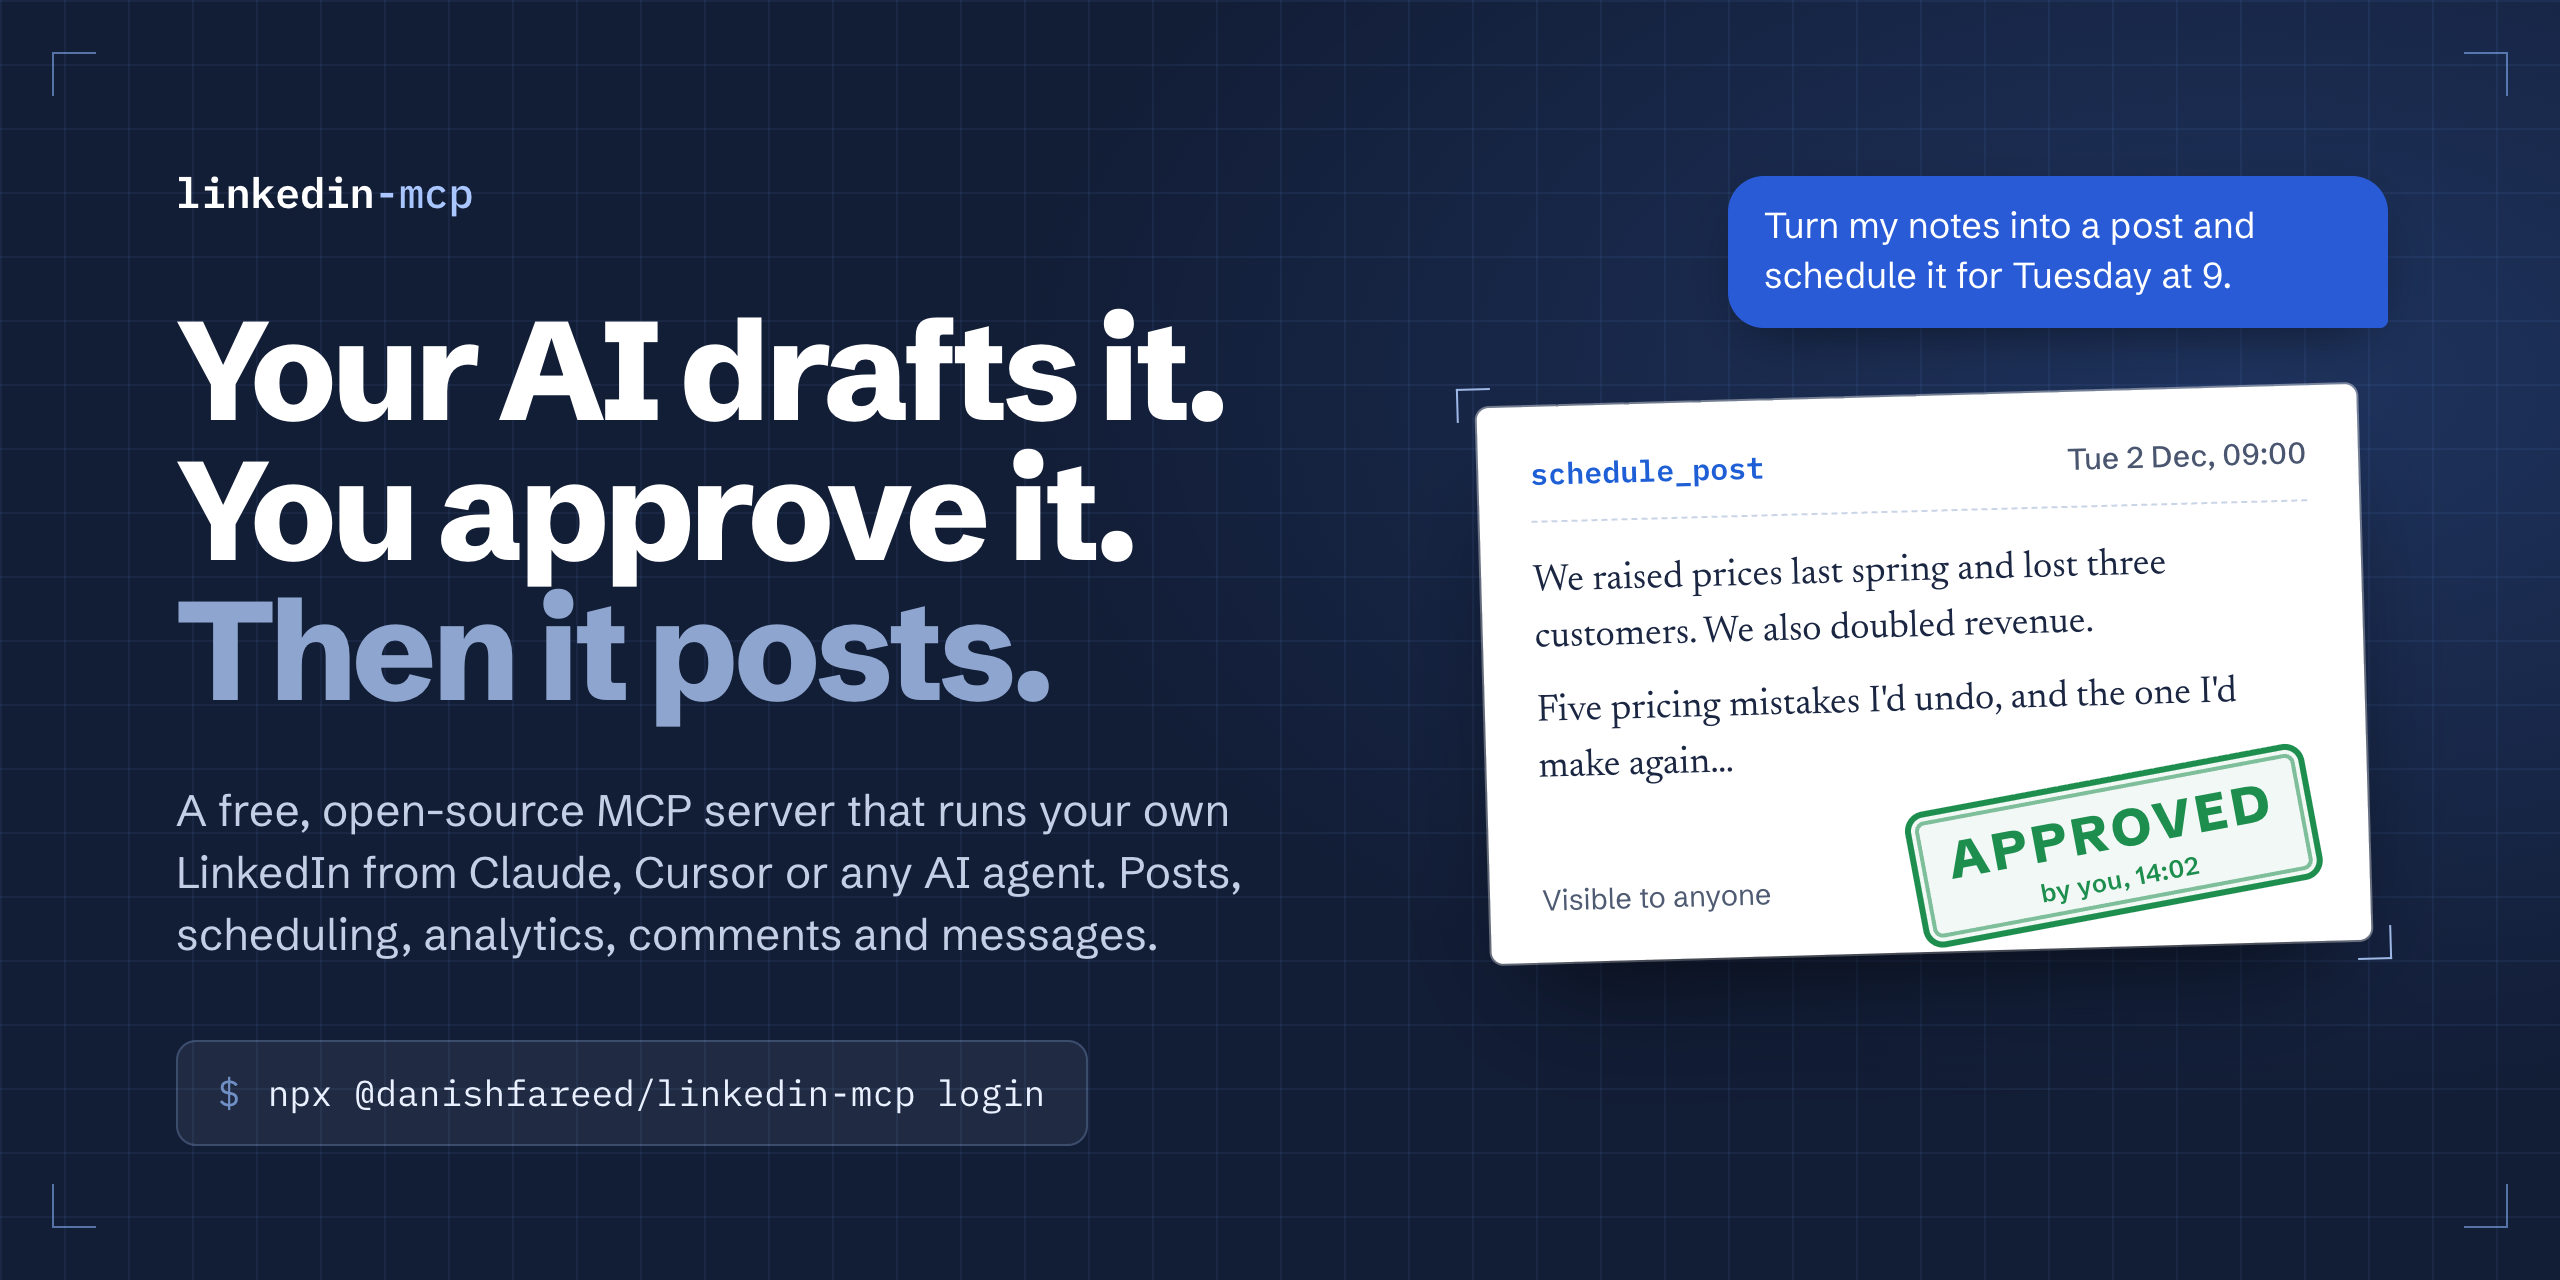
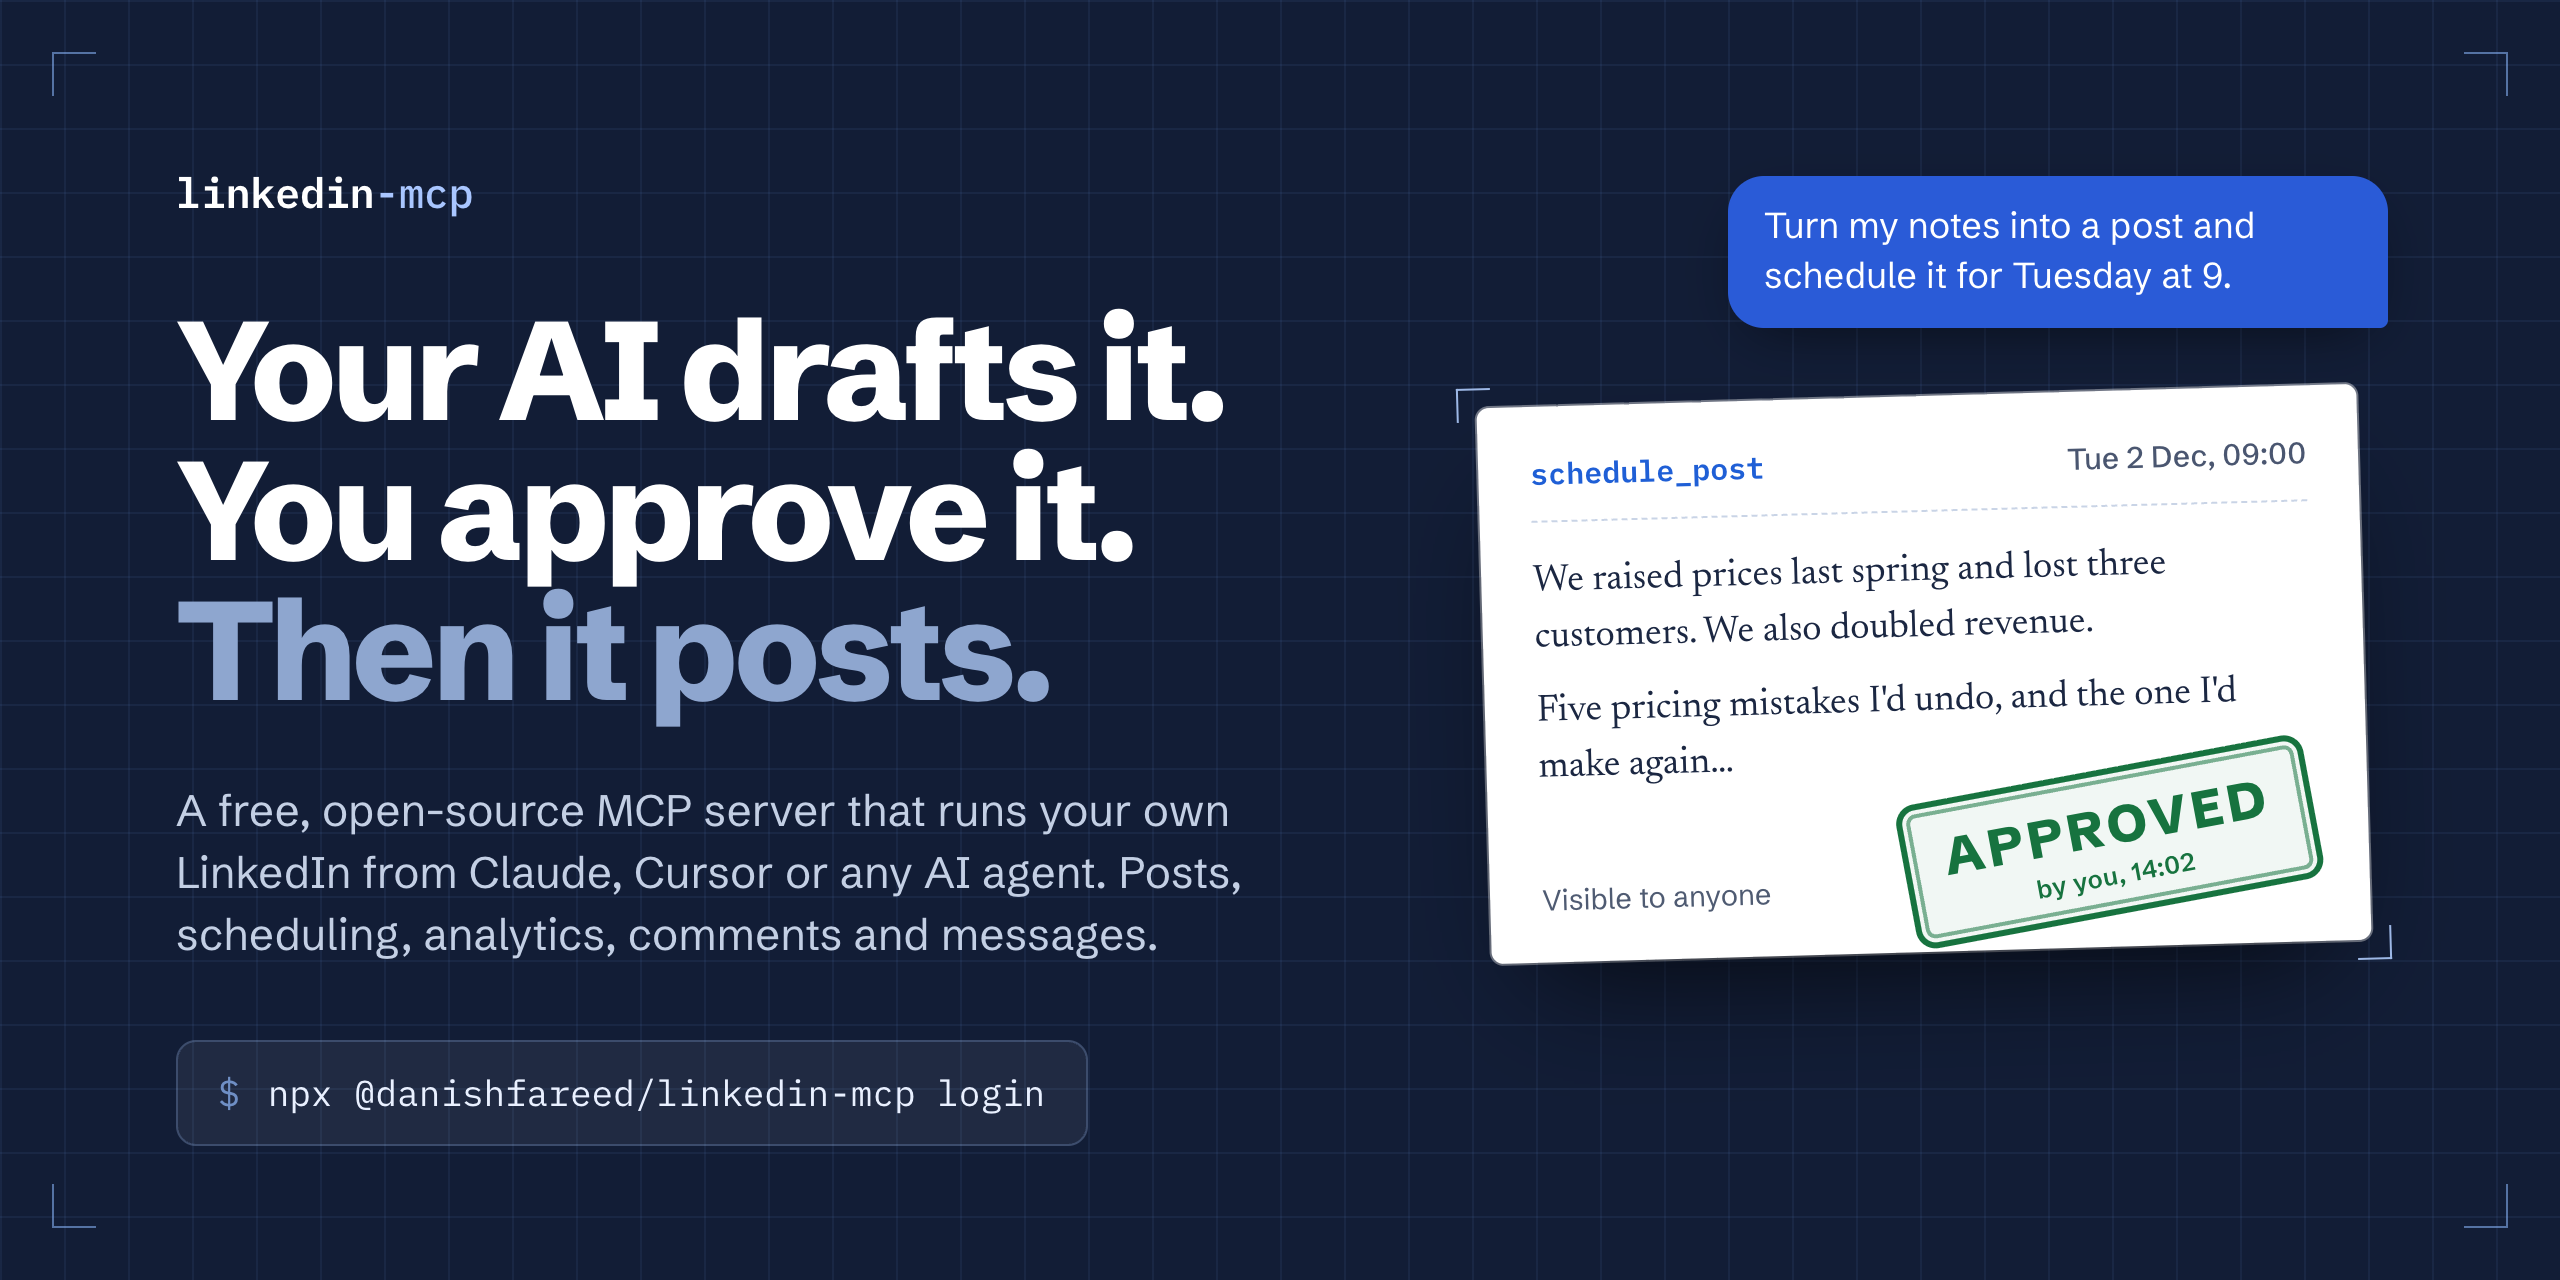
Refresh README images for the new tools and tighten their design
Tools index gains Jobs and the person/company post tools (38 tools). The
hero and demo drop the decorative glow, the approval stamp is darker for
contrast, and the diagram's headings step up more clearly.

Changed region(s): [[0.6875, 0.0625, 1.0, 0.5], [0.7188, 0.5625, 0.9062, 0.75]]

diff --git a/docs/assets/src/how-it-works.html b/docs/assets/src/how-it-works.html
@@ -20,7 +20,7 @@
   .station { position: relative; padding-top: 8px; }
   .glyph {
     width: 64px; height: 64px; border-radius: 16px; display: grid; place-items: center;
-    background: var(--sheet); box-shadow: var(--shadow); border: 1px solid var(--rule);
+    background: var(--sheet); border: 1.5px solid var(--rule);
     position: relative; z-index: 1;
   }
   .glyph svg { width: 32px; height: 32px; stroke: var(--ink); fill: none; stroke-width: 1.8; stroke-linecap: round; stroke-linejoin: round; }
@@ -28,8 +28,8 @@
   .station.us .glyph svg { stroke: var(--on-blue); }
   .station.last { padding-left: 46px; }
   .station.cross .wire { right: -40px; }
-  .station h3 { margin-top: 18px; font-size: 23px; font-weight: 700; letter-spacing: -0.015em; }
-  .station h3.mono { font-family: var(--mono); font-size: 21px; font-weight: 600; letter-spacing: -0.02em; }
+  .station h3 { margin-top: 18px; font-size: 25px; font-weight: 700; letter-spacing: -0.015em; }
+  .station h3.mono { font-family: var(--mono); font-size: 23px; font-weight: 600; letter-spacing: -0.02em; }
   .station p { margin-top: 6px; font-size: 17px; line-height: 1.42; color: var(--muted); max-width: 250px; }
 
   /* Connector between stations: a line from glyph to glyph with a label above. */
@@ -46,8 +46,8 @@
 
   /* Bottom: the route every send takes. */
   .route { margin-top: 74px; }
-  .route h4 { font-size: 19px; font-weight: 700; letter-spacing: -0.01em; }
-  .route h4 small { font-weight: 400; color: var(--muted); font-size: 17px; margin-left: 8px; }
+  .route h4 { font-size: 25px; font-weight: 700; letter-spacing: -0.02em; }
+  .route h4 small { display: block; margin-top: 4px; font-weight: 400; color: var(--muted); font-size: 17px; letter-spacing: 0; }
   .steps { margin-top: 26px; display: grid; grid-template-columns: repeat(6, 1fr); position: relative; }
   .steps::before { content: ""; position: absolute; left: 18px; right: 170px; top: 17px; border-top: 2px solid var(--rule); }
   .step { position: relative; padding-right: 18px; }
@@ -57,7 +57,7 @@
     font-weight: 700; font-size: 16px; position: relative; z-index: 1;
   }
   .step.you .num { background: var(--green); border-color: var(--green); color: var(--on-blue); }
-  .step h5 { margin-top: 16px; font-size: 18px; font-weight: 700; letter-spacing: -0.01em; }
+  .step h5 { margin-top: 16px; font-size: 20px; font-weight: 700; letter-spacing: -0.01em; }
   .step p { margin-top: 6px; font-size: 15.5px; line-height: 1.42; color: var(--muted); }
   .step.you h5 { color: var(--green); }
 </style>
@@ -78,7 +78,7 @@
       <div class="glyph"><svg viewBox="0 0 24 24"><path d="M6 3.5h9l3.5 3.5v13.5H6z"/><path d="M9 10h6M9 13h6M9 16h3.5"/><path d="M15 3.5V7h3.5"/></svg></div>
       <div class="wire"><em>drives</em></div>
       <h3 class="mono">linkedin-mcp</h3>
-      <p>33 tools, with previews, caps and a guard on every action.</p>
+      <p>38 tools, with previews, caps and a guard on every action.</p>
     </div>
 
     <div class="station cross">
@@ -96,7 +96,7 @@
   </div>
 
   <div class="route">
-    <h4>Every post, comment, reaction, message or invitation<small>takes the same route</small></h4>
+    <h4>Every send takes the same route<small>Posts, comments, reactions, messages, invitations and deletions.</small></h4>
     <div class="steps">
       <div class="step"><div class="num">1</div><h5>Preview</h5><p>The assistant shows you exactly what will be sent, and where.</p></div>
       <div class="step you"><div class="num">2</div><h5>You approve</h5><p>A single-use token, bound to that exact preview.</p></div>

diff --git a/docs/assets/src/hero.html b/docs/assets/src/hero.html
@@ -9,18 +9,15 @@
   .frame {
     width: 1280px; height: 640px;
     --ink-bg: #121d36;
-    background:
-      radial-gradient(900px 520px at 88% 30%, rgba(80, 140, 255, 0.20), transparent 70%),
-      var(--ink-bg);
+    background: var(--ink-bg);
     color: #eef2f9;
     border-radius: 0;
   }
   .frame.grid-bg {
     background-image:
-      radial-gradient(900px 520px at 88% 30%, rgba(80, 140, 255, 0.20), transparent 70%),
       linear-gradient(to right, rgba(120, 170, 255, 0.07) 1px, transparent 1px),
       linear-gradient(to bottom, rgba(120, 170, 255, 0.07) 1px, transparent 1px);
-    background-size: auto, 32px 32px, 32px 32px;
+    background-size: 32px 32px, 32px 32px;
     background-color: var(--ink-bg);
   }
   .crop { border-color: rgba(140, 185, 255, 0.55); }
@@ -74,10 +71,10 @@
   .stamp {
     position: absolute; right: 26px; bottom: 16px;
     transform: rotate(-9deg);
-    border: 3px solid #1e8e4f; color: #1e8e4f; border-radius: 10px;
-    padding: 8px 16px 7px; text-align: center;
-    background: rgba(30, 142, 79, 0.06);
-    box-shadow: inset 0 0 0 2px rgba(255, 255, 255, 0.9), inset 0 0 0 4px rgba(30, 142, 79, 0.55);
+    border: 3px solid #17733f; color: #17733f; border-radius: 10px;
+    padding: 10px 18px 9px; text-align: center;
+    background: rgba(23, 115, 63, 0.06);
+    box-shadow: inset 0 0 0 2px rgba(255, 255, 255, 0.9), inset 0 0 0 4px rgba(23, 115, 63, 0.55);
   }
   .stamp b { display: block; font-size: 26px; font-weight: 800; letter-spacing: 0.08em; }
   .stamp small { display: block; font-size: 12.5px; font-weight: 600; letter-spacing: 0.02em; margin-top: 1px; }

diff --git a/docs/assets/src/demo.html b/docs/assets/src/demo.html
@@ -10,17 +10,15 @@
     width: 960px; height: 600px; border-radius: 0;
     background-color: #0f1a33;
     background-image:
-      radial-gradient(700px 400px at 85% 10%, rgba(80, 140, 255, 0.16), transparent 70%),
       linear-gradient(to right, rgba(120, 170, 255, 0.06) 1px, transparent 1px),
       linear-gradient(to bottom, rgba(120, 170, 255, 0.06) 1px, transparent 1px);
-    background-size: auto, 32px 32px, 32px 32px;
+    background-size: 32px 32px, 32px 32px;
     padding: 28px 36px;
     color: #e3e9f5;
   }
   .window {
     height: 100%; border-radius: 16px; overflow: hidden;
     background: #121d38; border: 1px solid #27375c;
-    box-shadow: 0 30px 70px -30px rgba(0, 0, 0, 0.8);
     display: grid; grid-template-rows: 50px 1fr 74px;
   }
   .bar { display: flex; align-items: center; justify-content: space-between; padding: 0 22px; border-bottom: 1px solid #22314f; }
@@ -64,9 +62,9 @@
   .card-foot .mono { font-size: 12.5px; }
   .stamp {
     position: absolute; right: 24px; bottom: 9px; transform-origin: center;
-    border: 3px solid #1e8e4f; color: #1e8e4f; border-radius: 9px; padding: 6px 13px 5px; text-align: center;
+    border: 3px solid #17733f; color: #17733f; border-radius: 9px; padding: 6px 13px 5px; text-align: center;
     background: rgba(255, 255, 255, 0.92);
-    box-shadow: inset 0 0 0 2px #fff, inset 0 0 0 4px rgba(30, 142, 79, 0.55);
+    box-shadow: inset 0 0 0 2px #fff, inset 0 0 0 4px rgba(23, 115, 63, 0.55);
     opacity: 0;
   }
   .stamp b { display: block; font-size: 21px; font-weight: 800; letter-spacing: 0.08em; }

diff --git a/docs/assets/src/tools.html b/docs/assets/src/tools.html
@@ -61,11 +61,13 @@
         </ul>
       </div>
       <div class="group">
-        <h3>Research<small>5</small></h3>
+        <h3>Research<small>7</small></h3>
         <ul>
           <li><i class="m read"></i>get_person_profile</li>
+          <li><i class="m read"></i>get_person_posts</li>
           <li><i class="m read"></i>get_my_profile</li>
           <li><i class="m read"></i>get_company_profile</li>
+          <li><i class="m read"></i>get_company_posts</li>
           <li><i class="m read"></i>search_people</li>
           <li><i class="m read"></i>search_companies</li>
         </ul>
@@ -99,6 +101,14 @@
     </div>
 
     <div>
+      <div class="group">
+        <h3>Jobs<small>3</small></h3>
+        <ul>
+          <li><i class="m read"></i>search_jobs</li>
+          <li><i class="m read"></i>get_job_details</li>
+          <li><i class="m read"></i>get_saved_jobs</li>
+        </ul>
+      </div>
       <div class="group">
         <h3>Session and safety<small>8</small></h3>
         <ul>
